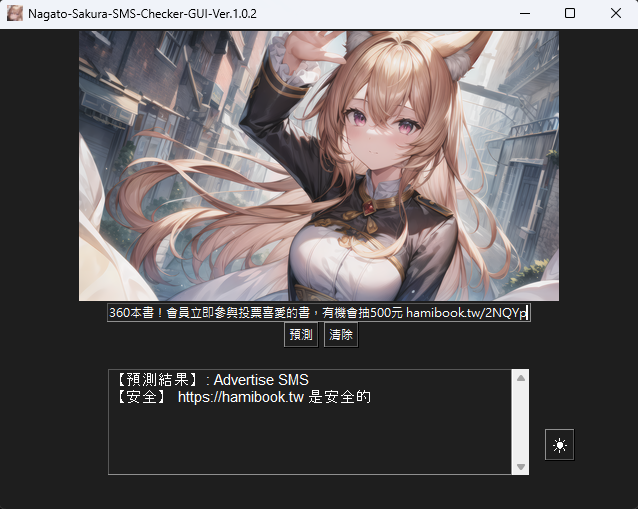
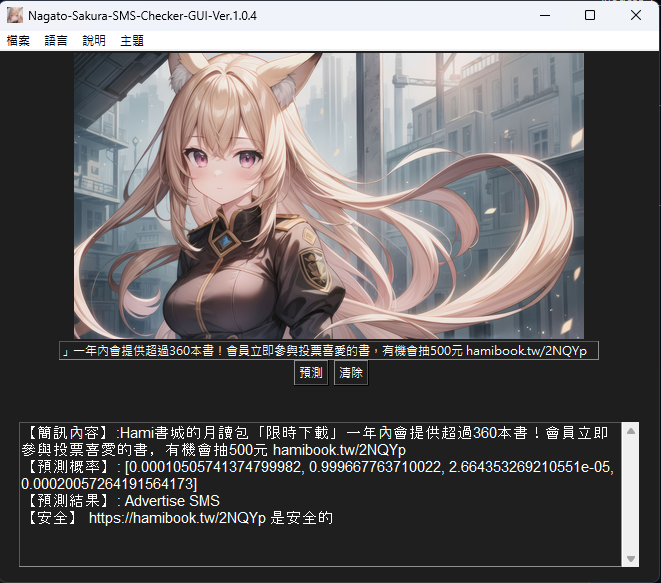
Ver.1.0.4

diff --git a/README.md b/README.md
@@ -138,9 +138,9 @@ python Nagato-Sakura-SMS-Checker-GUI.py
 
 ## GUI 實際使用範例
 ### 範例 1
-簡訊內容: 本週6164華興成功獲利40趴 下週強勢飆股已選出 趕緊加賴領取：
+簡訊內容: Myfone提醒您：截止2月29號，您門號尚餘19,985點積分,於今日到期，點擊連結立即兌換獎品！
 
-這種簡訊是台灣常見的投資詐騙手法，誘使投資人加入Line群組再進行詐騙，讓我們一起看看長門櫻的辨識結果:
+這種簡訊是台灣現在流行的詐騙簡訊，不但訊息以假亂真他的詐騙網站也做得十分逼真，讓我們一起看看長門櫻的辨識結果:
 
 ![t2i](assets/samples/scam_sms.png)
 
@@ -178,7 +178,7 @@ python Nagato-Sakura-SMS-Checker-GUI.py
 
 長門櫻表示剛剛我們做的事實在是太小看她了，要我們試試一次給她兩個或以上的網址，長門櫻啊千萬別逞強啊。
 
-![t2i](assets/samples/two_sms.png)
+![t2i](assets/samples/two_url_sms.png)
 
 長門櫻成功識別出了亞太電信傳的一般訊息，也成功識別出了兩個網址，並且分別進行安全性測試，亞太電信你網站能弄好嗎? 不是 SSL 問題就是 HOST NOT FOUND 工程師實在是太混了 WWW 。
 
@@ -195,7 +195,7 @@ python Nagato-Sakura-SMS-Checker-GUI.py
   - [x] 電話號碼及網址檢測。
   - [x] 一鍵清除所有內容的按鍵。
   - [ ] 可縮放的調整畫面比例的GUI。
-  - [ ] 電話號碼黑名單。
+  - [ ] 黑名單。
      
 
 ## 致謝
